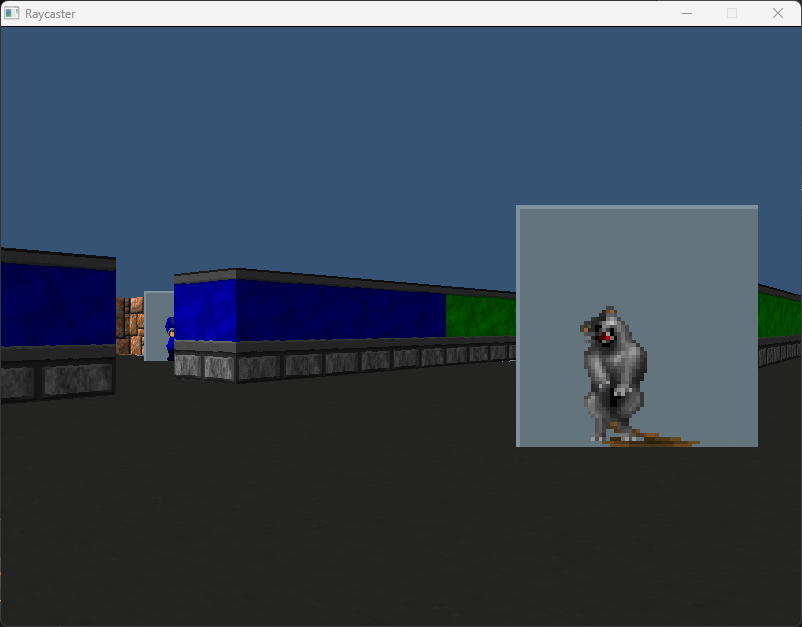
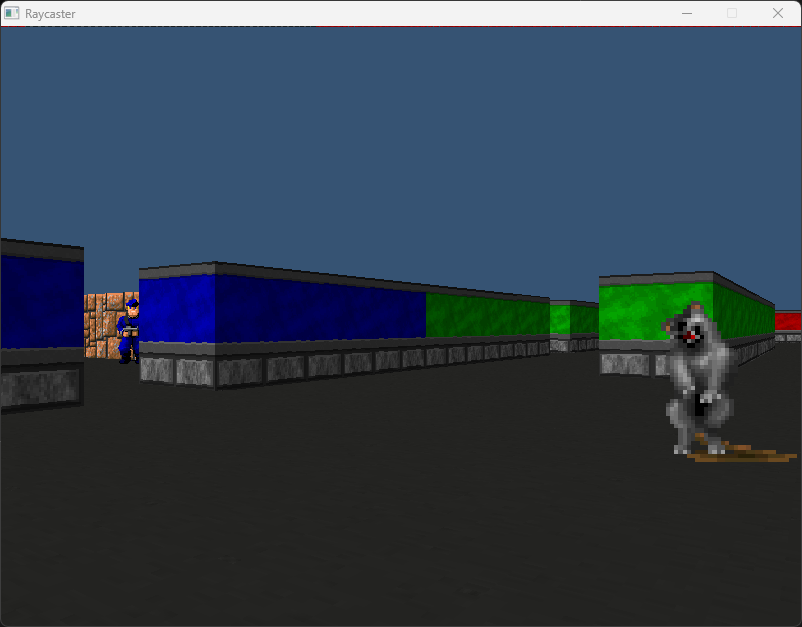
added removing background via alpha blending

diff --git a/src/perform_raycasting.c b/src/perform_raycasting.c
@@ -288,6 +288,7 @@ void perform_raycasting(Player *player, uint32_t *buffer, int worldMap[MAP_HEIGH
             if (textures[t].id == texture_id)
             {
                 spriteTexture = textures[t].texture;
+                remove_background(spriteTexture, BACKGROUND_COLOR);
                 break;
             }
         }
@@ -310,10 +311,36 @@ void perform_raycasting(Player *player, uint32_t *buffer, int worldMap[MAP_HEIGH
                     int texY = ((d * texHeight) / spriteHeight) / 256;
 
                     uint32_t color = spriteTexture->pixels[texHeight * texY + texX];
+                    uint8_t alpha = (color >> 24) & 0xFF; // extract alpha channel
 
-                    if ((color & 0x00FFFFFF) != 0xFF00FF)
+                    if (alpha > 0) // only render if not fully transparent
                     {
-                        buffer[y * width + stripe] = color;
+                        if (alpha == 255) // fully opaque
+                        {
+                            buffer[y * width +stripe] = color;
+                        }
+                        else // blend pixel
+                        {
+                            // get background color from the buffer
+                            uint32_t bgColor = buffer[y * width + stripe];
+
+                            // separate RGBA components
+                            uint8_t bgR = (bgColor >> 16) & 0xFF;
+                            uint8_t bgG = (bgColor >> 8) & 0xFF;
+                            uint8_t bgB = bgColor & 0xFF;
+
+                            uint8_t srcR = (color >> 16) & 0xFF;
+                            uint8_t srcG = (color >> 8) & 0xFF;
+                            uint8_t srcB = color & 0xFF;
+
+                            // perform alpha blending
+                            uint8_t outR = (alpha * srcR + (255 - alpha) * bgR) / 255;
+                            uint8_t outG = (alpha * srcG + (255 - alpha) * bgG) / 255;
+                            uint8_t outB = (alpha * srcB + (255 - alpha) * bgB) / 255;
+
+                            // recombine components back into ARGB
+                            buffer[y * width + stripe] = (255 << 24) | (outR << 16) | (outG << 8) | outB;
+                        }
                     }
                 }
             }

diff --git a/src/texture.c b/src/texture.c
@@ -108,6 +108,18 @@ TextureEntry *load_textures(const char *config_filename, int *texture_count)
     return textures;
 }
 
+// Function to remove the background color from a texture
+void remove_background(Texture *tex, uint32_t bg_color)
+{
+    for (int i = 0; i < tex->width * tex->height; i++)
+    {
+        if (tex->pixels[i] == BACKGROUND_COLOR)
+        {
+            tex->pixels[i] = 0x00000000; // Set pixel to fully transparent
+        }
+    }
+}
+
 void cleanup_textures(TextureEntry *textures, int texture_count)
 {
     for (int i = 0; i < texture_count; i++)

diff --git a/include/raycaster.h b/include/raycaster.h
@@ -91,6 +91,9 @@ void get_move(const uint8_t *key_buffer, int worldMap[MAP_HEIGHT][MAP_WIDTH], Pl
 // Load textures from configuration
 TextureEntry *load_textures(const char *config_filename, int *texture_count);
 
+// Function to remove the background color from a texture
+void remove_background(Texture *tex, uint32_t bg_color);
+
 // Cleanup textures
 void cleanup_textures(TextureEntry *textures, int texture_count);
 

diff --git a/include/colors.h b/include/colors.h
@@ -1,6 +1,8 @@
 #ifndef COLORS_H
 #define COLORS_H
 
+#define BACKGROUND_COLOR 0xFF63747D  // 0xFF (alpha) + 63747D (hex color)
+
 // Enumeration for colors using RGB values packed into a 32-bit integer
 typedef enum 
 {
